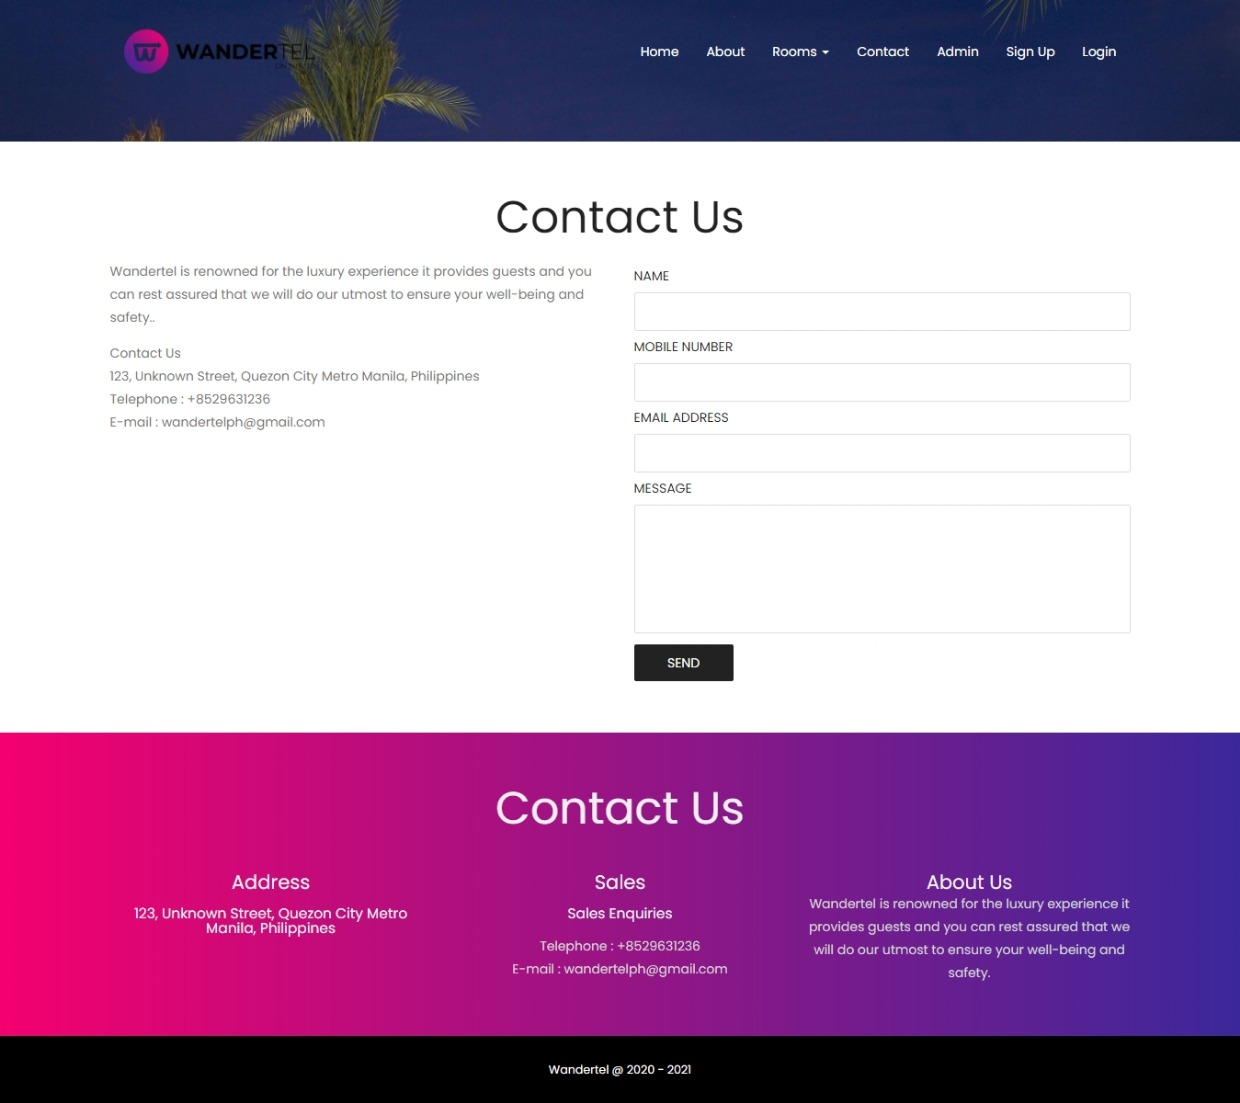
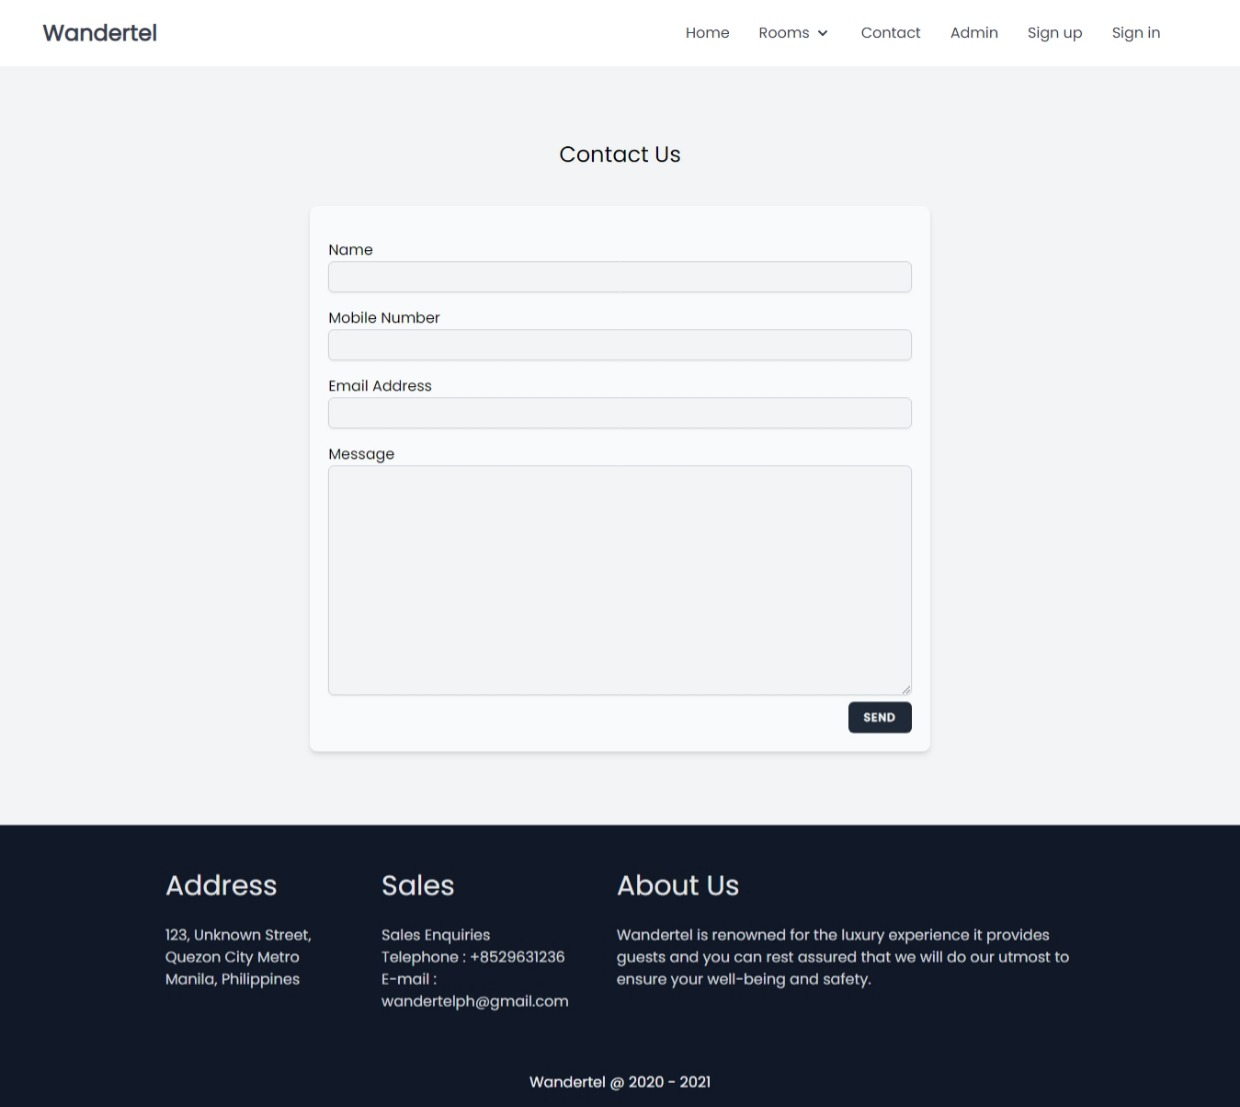
Updated yowndrift and wandertel

diff --git a/docs/wandertel.html b/docs/wandertel.html
@@ -252,68 +252,73 @@
             var items = [{
                     src: 'img/wandertel/wandertel_home.jpeg',
                     w: 1240,
-                    h: 1269
+                    h: 1423
                 },
                 {
-                    src: 'img/wandertel/wandertel_about.jpeg',
+                    src: 'img/wandertel/wandertel_rooms.jpeg',
                     w: 1240,
-                    h: 1759
-                },
-                {
-                    src: 'img/wandertel/wandertel_single_room.jpeg',
-                    w: 1240,
-                    h: 1428
+                    h: 862
                 },
                 {
                     src: 'img/wandertel/wandertel_contact.jpeg',
                     w: 1240,
-                    h: 1103
+                    h: 1107
                 },
                 {
-                    src: 'img/wandertel/wandertel_admin_login.jpeg',
+                    src: 'img/wandertel/wandertel_admin_signin.jpeg',
                     w: 1240,
-                    h: 761
+                    h: 567
                 },
                 {
-                    src: 'img/wandertel/wandertel_admin_forgot_pass.jpeg',
+                    src: 'img/wandertel/wandertel_admin_forgot_password.jpeg',
                     w: 1240,
-                    h: 761
+                    h: 626
                 },
                 {
                     src: 'img/wandertel/wandertel_signup.jpeg',
                     w: 1240,
-                    h: 642
+                    h: 659
                 },
                 {
                     src: 'img/wandertel/wandertel_signin.jpeg',
                     w: 1240,
-                    h: 635
+                    h: 567
+                },
+                {
+                    src: 'img/wandertel/wandertel_forgot_password.jpeg',
+                    w: 1240,
+                    h: 659
                 },
                 {
                     src: 'img/wandertel/wandertel_profile.jpeg',
                     w: 1240,
-                    h: 756
+                    h: 705
                 },
                 {
                     src: 'img/wandertel/wandertel_my_booking.jpeg',
                     w: 1240,
-                    h: 822
+                    h: 759
+                },
+                {
+                    src: 'img/wandertel/wandertel_view_application_details.jpeg',
+                    w: 1240,
+                    h: 1199
+                },
+                {
+                    src: 'img/wandertel/wandertel_invoice.jpeg',
+                    w: 1240,
+                    h: 903
                 },
                 {
                     src: 'img/wandertel/wandertel_change_password.jpeg',
                     w: 1240,
-                    h: 756
+                    h: 637
                 },
                 {
-                    src: 'img/wandertel/wandertel_confirm_booking.jpeg',
+                    src: 'img/wandertel/wandertel_book_room.jpeg',
                     w: 1240,
-                    h: 1066
-                },
-                {
-                    src: 'img/wandertel/wandertel_dashboard.jpeg',
-                    w: 1240,
-                    h: 716
-                },
+                    h: 1071
+                }
             ];
 
             // define options (if needed)

diff --git a/docs/yowndrift.html b/docs/yowndrift.html
@@ -272,11 +272,6 @@
 
       // build items array
       var items = [{
-          src: 'img/yowndrift/yowndrift_landing.jpeg',
-          w: 1240,
-          h: 569
-        },
-        {
           src: 'img/yowndrift/yowndrift_home.jpeg',
           w: 1240,
           h: 2229
